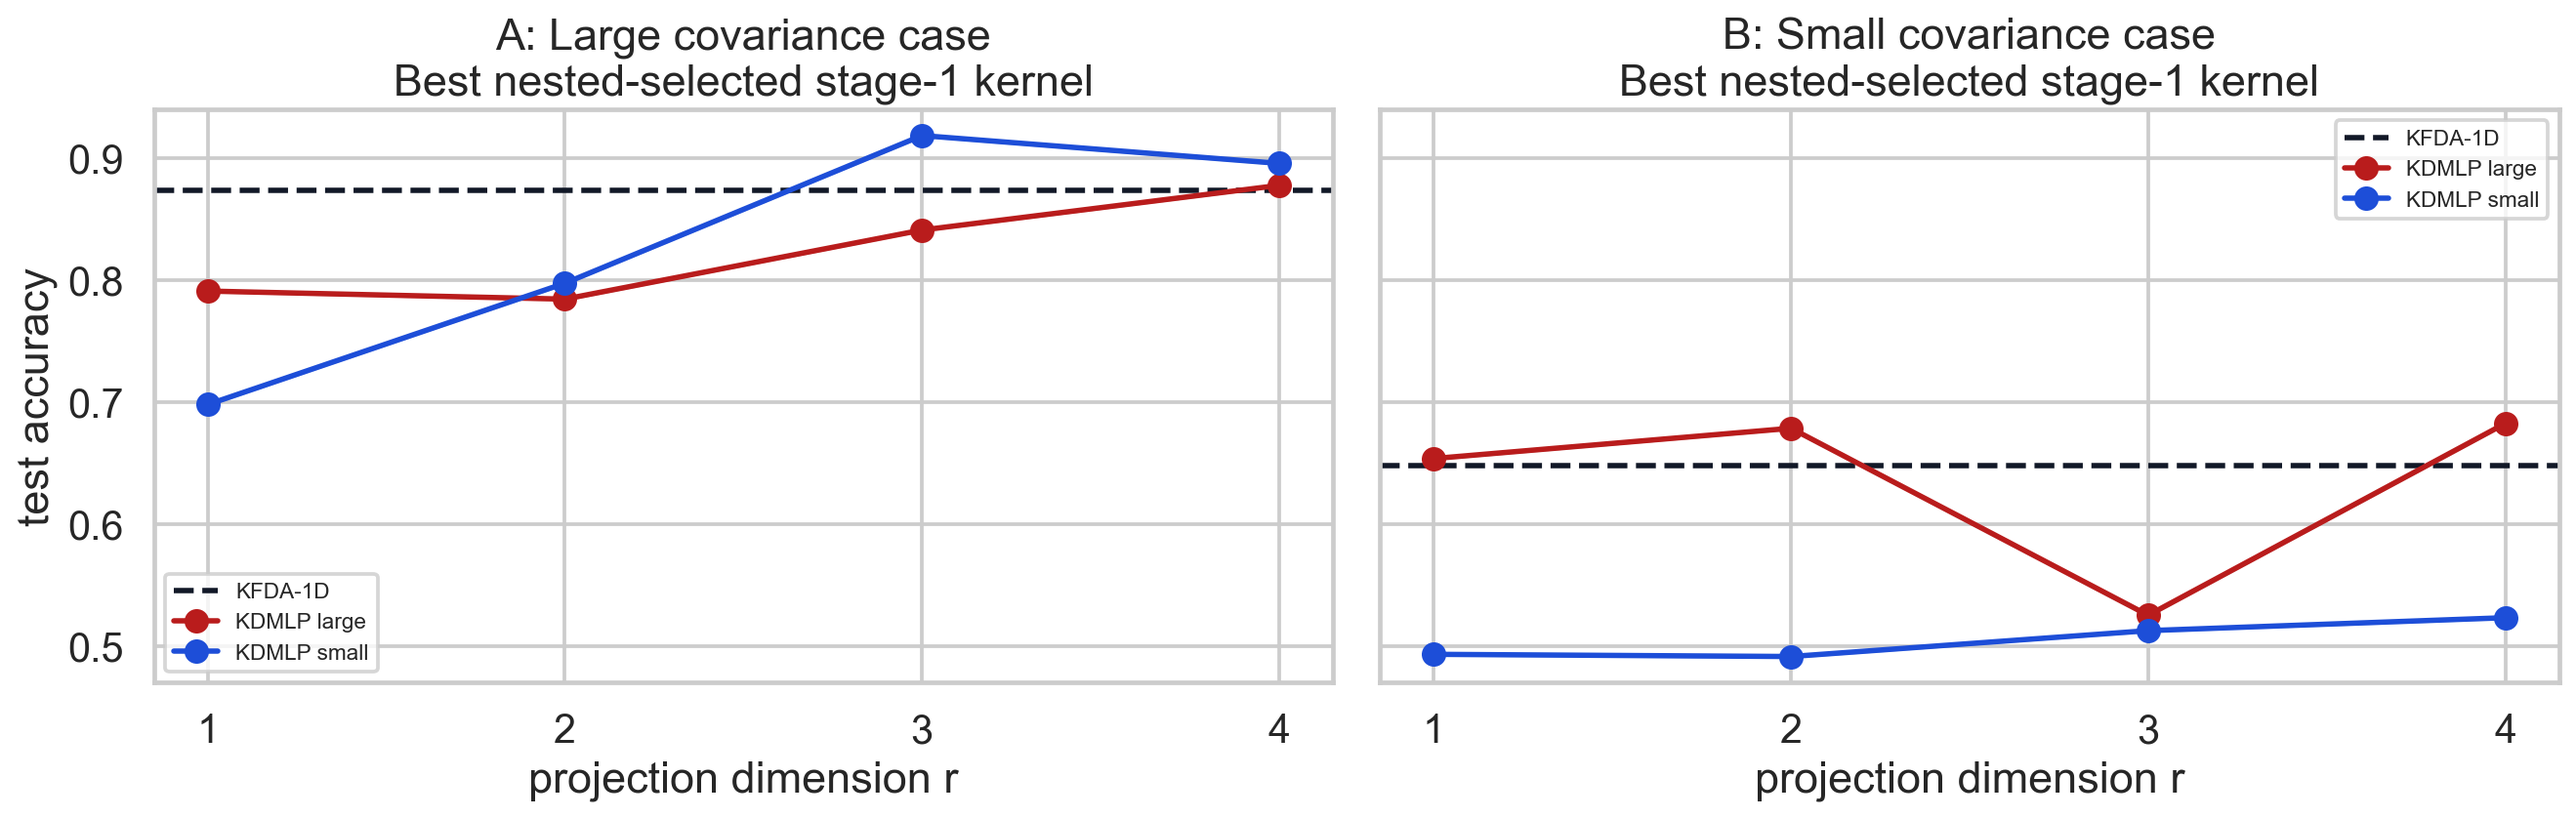
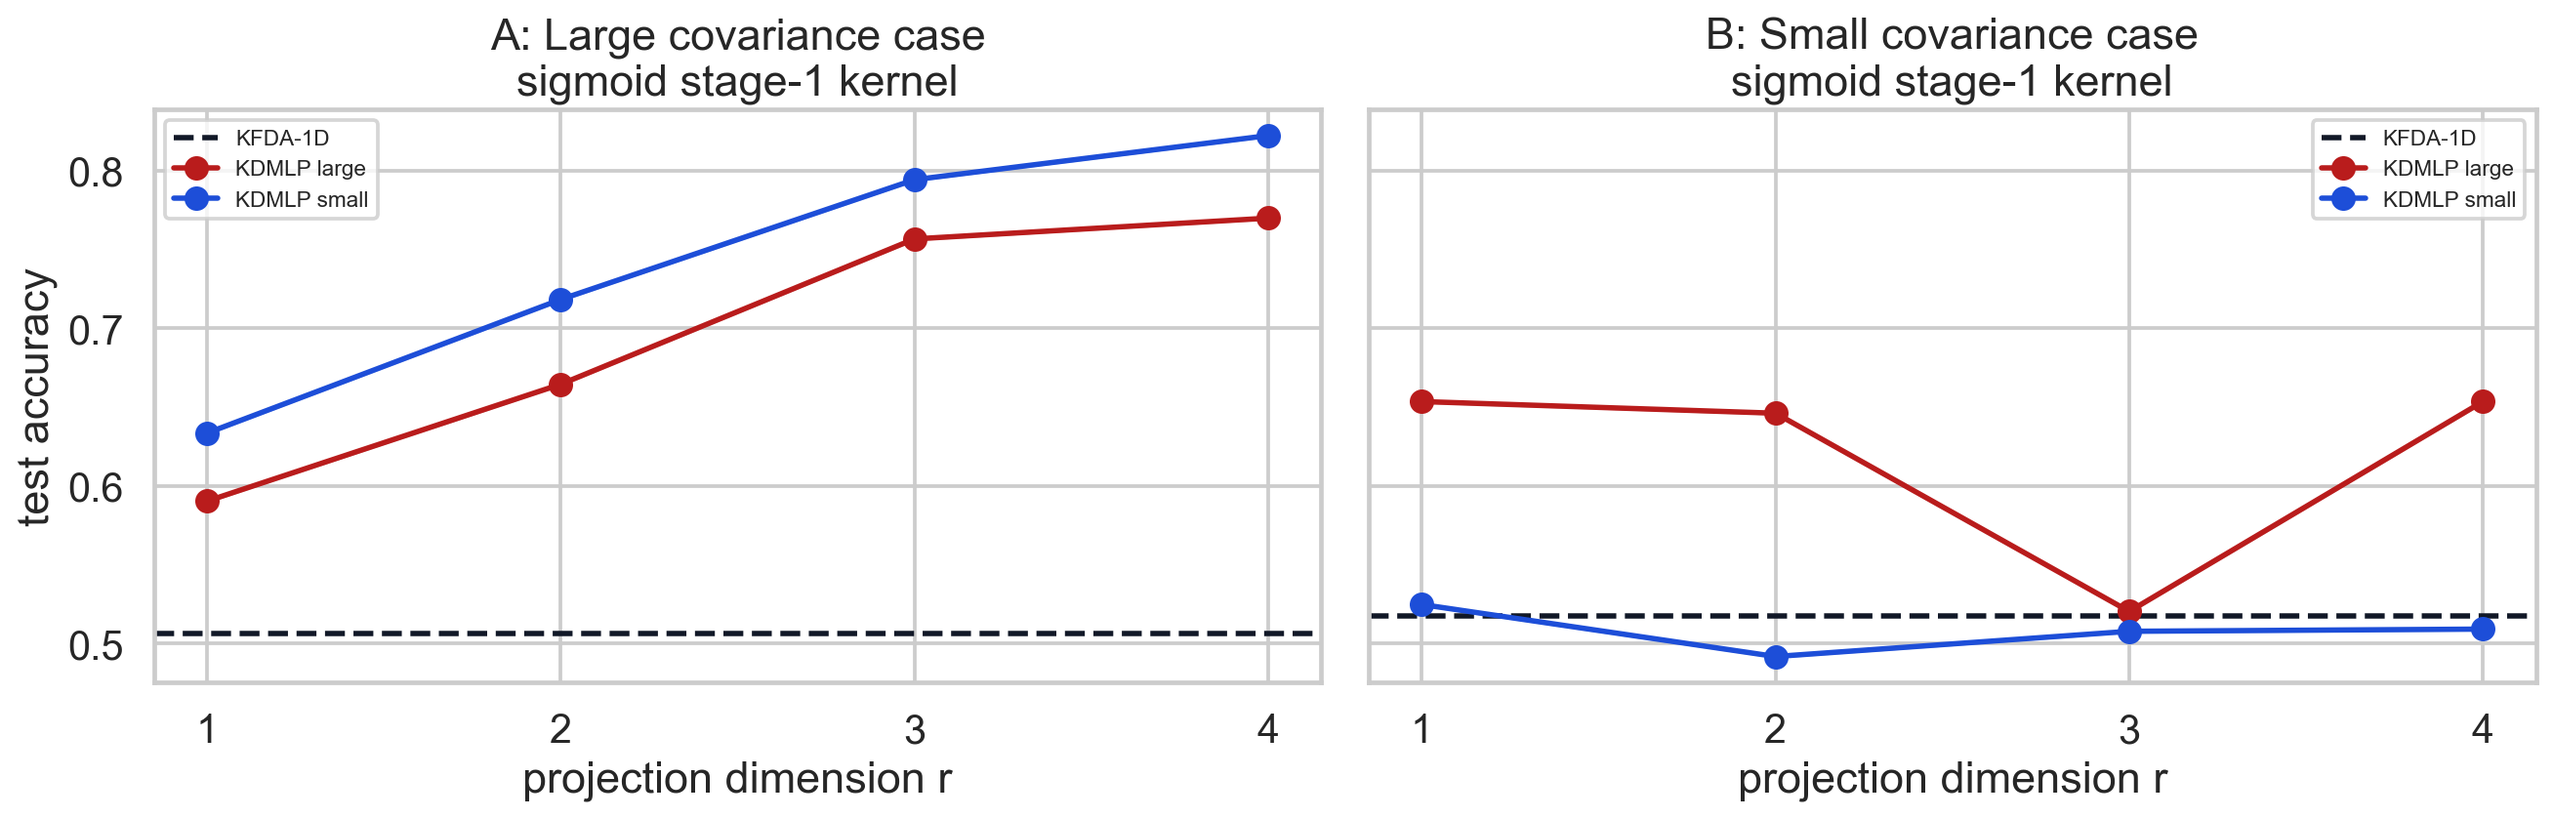
Use nonlinear representative-kernel plots

diff --git a/simulations/kernel_space_signal_noise_workspace/kernel_space_signal_noise_demo.py b/simulations/kernel_space_signal_noise_workspace/kernel_space_signal_noise_demo.py
@@ -222,6 +222,67 @@ def run_bestkernel_case(regime: base.Regime, repeats: int = 1, seed: int = 123):
     return df_raw, df_sel, df_acc, df_cov, df_cov_summary, plot_payload
 
 
+def run_fixed_kernel_case(
+    regime: base.Regime,
+    metric: str,
+    raw_params: dict,
+    repeats: int = 1,
+    seed: int = 123,
+):
+    raw_rows = []
+    plot_payload = {}
+
+    for rep in range(repeats):
+        rng = np.random.default_rng(seed + rep)
+        X0_train = base.sample_gaussian_antithetic(regime.n_train_per_class, regime.mean0, regime.Sigma0, rng)
+        X1_train = base.sample_gaussian_antithetic(regime.n_train_per_class, regime.mean1, regime.Sigma1, rng)
+        X0_test = base.sample_gaussian_antithetic(regime.n_test_per_class, regime.mean0, regime.Sigma0, rng)
+        X1_test = base.sample_gaussian_antithetic(regime.n_test_per_class, regime.mean1, regime.Sigma1, rng)
+
+        X_train = np.vstack([X0_train, X1_train])
+        y_train = np.hstack([np.zeros(len(X0_train), int), np.ones(len(X1_train), int)])
+        X_test = np.vstack([X0_test, X1_test])
+        y_test = np.hstack([np.zeros(len(X0_test), int), np.ones(len(X1_test), int)])
+
+        for variant in base.VARIANTS:
+            dims = (1,) if variant == "KFDA-1D" else R_VALUES
+            for r in dims:
+                full = base.refit_variant_on_full_train(
+                    variant=variant,
+                    proj_dim=r,
+                    X_train=X_train,
+                    y_train=y_train,
+                    X_test=X_test,
+                    y_test=y_test,
+                    anchor_per_class=40,
+                    stage1_seed=seed + 2000 * rep + 17 * r,
+                    metric=metric,
+                    raw_or_norm_params=raw_params,
+                    reg=1e-6,
+                )
+                raw_rows.append(
+                    {
+                        "regime": regime.name,
+                        "repeat": rep + 1,
+                        "variant": variant,
+                        "r": int(r),
+                        "stage1_kernel": full["stage1_kernel"],
+                        "stage1_label": full["stage1_label"],
+                        "test_acc": full["test_acc"],
+                    }
+                )
+                if rep == 0:
+                    plot_payload[(variant, int(r))] = {
+                        "Z_show": full["Z_show"],
+                        "y_show": full["y_show"],
+                        "stage1_label": full["stage1_label"],
+                    }
+
+    df_raw = pd.DataFrame(raw_rows)
+    df_acc = base.summarize_accuracy(df_raw)
+    return df_raw, df_acc, plot_payload
+
+
 def collapse_by_kernel(df_cov_summary: pd.DataFrame) -> pd.DataFrame:
     cols = [
         "ref_D_mu_feature",
@@ -269,7 +330,7 @@ def build_case_signal_summary(df_signal_noise: pd.DataFrame) -> pd.DataFrame:
     return pd.DataFrame(rows)
 
 
-def plot_accuracy_curves(large_acc: pd.DataFrame, small_acc: pd.DataFrame):
+def plot_accuracy_curves(large_acc: pd.DataFrame, small_acc: pd.DataFrame, large_label: str, small_label: str):
     fig, axes = plt.subplots(1, 2, figsize=(15, 5), sharey=True)
     colors = {"KFDA-1D": "#111827", "MY-large_mu": "#b91c1c", "MY-small_mu": "#1d4ed8"}
 
@@ -281,7 +342,7 @@ def plot_accuracy_curves(large_acc: pd.DataFrame, small_acc: pd.DataFrame):
         cur = sub[sub["variant"] == variant].sort_values("r")
         ax.plot(cur["r"], cur["mean"], marker="o", linewidth=2.2, color=colors[variant], label=base.variant_display(variant))
         ax.fill_between(cur["r"], cur["mean"] - cur["std"], cur["mean"] + cur["std"], alpha=0.18, color=colors[variant])
-    ax.set_title("A: Large covariance case\nBest nested-selected stage-1 kernel")
+    ax.set_title(f"A: Large covariance case\n{large_label}")
     ax.set_xlabel("projection dimension r")
     ax.set_ylabel("test accuracy")
     ax.set_xticks(list(R_VALUES))
@@ -295,7 +356,7 @@ def plot_accuracy_curves(large_acc: pd.DataFrame, small_acc: pd.DataFrame):
         cur = sub[sub["variant"] == variant].sort_values("r")
         ax.plot(cur["r"], cur["mean"], marker="o", linewidth=2.2, color=colors[variant], label=base.variant_display(variant))
         ax.fill_between(cur["r"], cur["mean"] - cur["std"], cur["mean"] + cur["std"], alpha=0.18, color=colors[variant])
-    ax.set_title("B: Small covariance case\nBest nested-selected stage-1 kernel")
+    ax.set_title(f"B: Small covariance case\n{small_label}")
     ax.set_xlabel("projection dimension r")
     ax.set_xticks(list(R_VALUES))
     ax.legend(frameon=True, fontsize=9)
@@ -393,7 +454,12 @@ def plot_case_signal_summary(df_case_summary: pd.DataFrame):
     return out
 
 
-def plot_projection_views(large_payload: dict, large_acc: pd.DataFrame, small_payload: dict, small_acc: pd.DataFrame):
+def plot_projection_views(
+    large_payload: dict,
+    large_acc: pd.DataFrame,
+    small_payload: dict,
+    small_acc: pd.DataFrame,
+):
     fig, axes = plt.subplots(2, 3, figsize=(16, 10))
 
     best_large = large_acc[large_acc["variant"] == "MY-large_mu"].sort_values("mean", ascending=False).iloc[0]
@@ -454,6 +520,13 @@ def parse_args():
     return parser.parse_args()
 
 
+def kernel_raw_params_for_name(metric: str) -> dict:
+    for name, raw_params in base.STAGE1_KERNELS:
+        if name == metric:
+            return raw_params
+    raise ValueError(f"Unknown stage-1 kernel: {metric}")
+
+
 def main():
     args = parse_args()
     global OUT_DIR
@@ -511,10 +584,35 @@ def main():
         ]
     ).to_csv(OUT_DIR / "case_setup.csv", index=False)
 
-    acc_plot = plot_accuracy_curves(df_large_acc, df_small_acc)
+    large_kernel = str(df_case_summary[df_case_summary["label"] == "A"]["representative_kernel"].iloc[0])
+    small_kernel = str(df_case_summary[df_case_summary["label"] == "B"]["representative_kernel"].iloc[0])
+
+    _, df_large_fixed_acc, large_fixed_payload = run_fixed_kernel_case(
+        large_regime,
+        metric=large_kernel,
+        raw_params=kernel_raw_params_for_name(large_kernel),
+        repeats=args.repeats,
+        seed=args.seed,
+    )
+    _, df_small_fixed_acc, small_fixed_payload = run_fixed_kernel_case(
+        small_regime,
+        metric=small_kernel,
+        raw_params=kernel_raw_params_for_name(small_kernel),
+        repeats=args.repeats,
+        seed=args.seed,
+    )
+    df_large_fixed_acc.to_csv(OUT_DIR / "large_case_representative_kernel_accuracy_summary.csv", index=False)
+    df_small_fixed_acc.to_csv(OUT_DIR / "small_case_representative_kernel_accuracy_summary.csv", index=False)
+
+    acc_plot = plot_accuracy_curves(
+        df_large_fixed_acc,
+        df_small_fixed_acc,
+        f"{large_kernel} stage-1 kernel",
+        f"{small_kernel} stage-1 kernel",
+    )
     sig_plot = plot_signal_vs_noise(large_cov_export, small_cov_export)
     case_sig_plot = plot_case_signal_summary(df_case_summary)
-    proj_plot = plot_projection_views(large_payload, df_large_acc, small_payload, df_small_acc)
+    proj_plot = plot_projection_views(large_fixed_payload, df_large_fixed_acc, small_fixed_payload, df_small_fixed_acc)
 
     print("Saved outputs:")
     print(f"- {OUT_DIR / 'strong_bestkernel_accuracy_summary.csv'}")
@@ -533,6 +631,9 @@ def main():
         print(df_large_acc)
         print("\nSmall-covariance accuracy summary:")
         print(df_small_acc)
+        print("\nRepresentative-kernel accuracy summary:")
+        print(df_large_fixed_acc)
+        print(df_small_fixed_acc)
         print("\nFeature-space signal vs noise summary:")
         print(df_signal_noise)
         print("\nCase-level signal vs error summary:")

diff --git a/simulations/kernel_space_signal_noise_workspace/README.md b/simulations/kernel_space_signal_noise_workspace/README.md
@@ -55,5 +55,6 @@ The figures below use the default `d=220` run in `outputs/`, and they summarize 
   `ref_D_sigma_feature` versus `cov_gap_error_feature`.
 - In the large covariance case, the representative kernel is `sigmoid`, whose feature-space covariance difference is much larger than its estimation error (`0.2135` vs `0.0509`, ratio `4.199`), and KDMLP improves over KFDA (`0.918` vs `0.874`).
 - In the small covariance case, even the best representative kernel stays below the noise floor (`sigmoid`, `0.0290` vs `0.0649`, ratio `0.447`); the final accuracy can still be influenced by the mean-separation part of the method (`0.683` vs `0.648` for KFDA).
+- The displayed accuracy curves and projection views now use that representative nonlinear kernel (`sigmoid`) rather than the earlier linear-only view.
 - The companion Gaussian sweep in `simulations/redo_projection_workspace` now enforces `r <= p` for every stage-1 kernel and uses a moderate default `p=120`. In that sweep, the weak-gap regime reaches its best KDMLP accuracy at very small `r` (`0.624` at `r=2`, versus `0.518` for `KFDA-1D`), which is consistent with a setting where the mean-separation component matters more than large covariance-sensitive expansions.
 - The higher-dimensional supplementary run is included in `outputs_d500_r3`, where `d=500` and `repeats=3`. In that run, the large covariance case still favors KDMLP (`0.579` vs `0.529` for KFDA), while the small covariance case still has feature-space signal below covariance error and is helped by the mean-separation component of `KDMLP large`.

diff --git a/README.md b/README.md
@@ -82,7 +82,7 @@ This case-level table makes the intended separation explicit at the feature-spac
 
 ![Feature-space signal vs noise](simulations/kernel_space_signal_noise_workspace/outputs/feature_space_signal_vs_noise.png)
 
-The corresponding accuracy curves make the same point from the prediction side under the best nested-selected stage-1 kernels: when the covariance signal is stable, KDMLP can improve over KFDA, while in the weak-signal setting the behavior is much less robust and should be interpreted together with the covariance-error diagnostic above.
+The corresponding accuracy curves now use the representative nonlinear kernel from the feature-space table (`sigmoid` in both cases). Under that nonlinear stage-1 kernel, the large-covariance case still shows a stable covariance signal and KDMLP improves over KFDA, while in the small-covariance case the behavior remains much less robust and should be interpreted together with the covariance-error diagnostic above.
 
 ![Feature-space accuracy curves](simulations/kernel_space_signal_noise_workspace/outputs/accuracy_curves.png)
 
